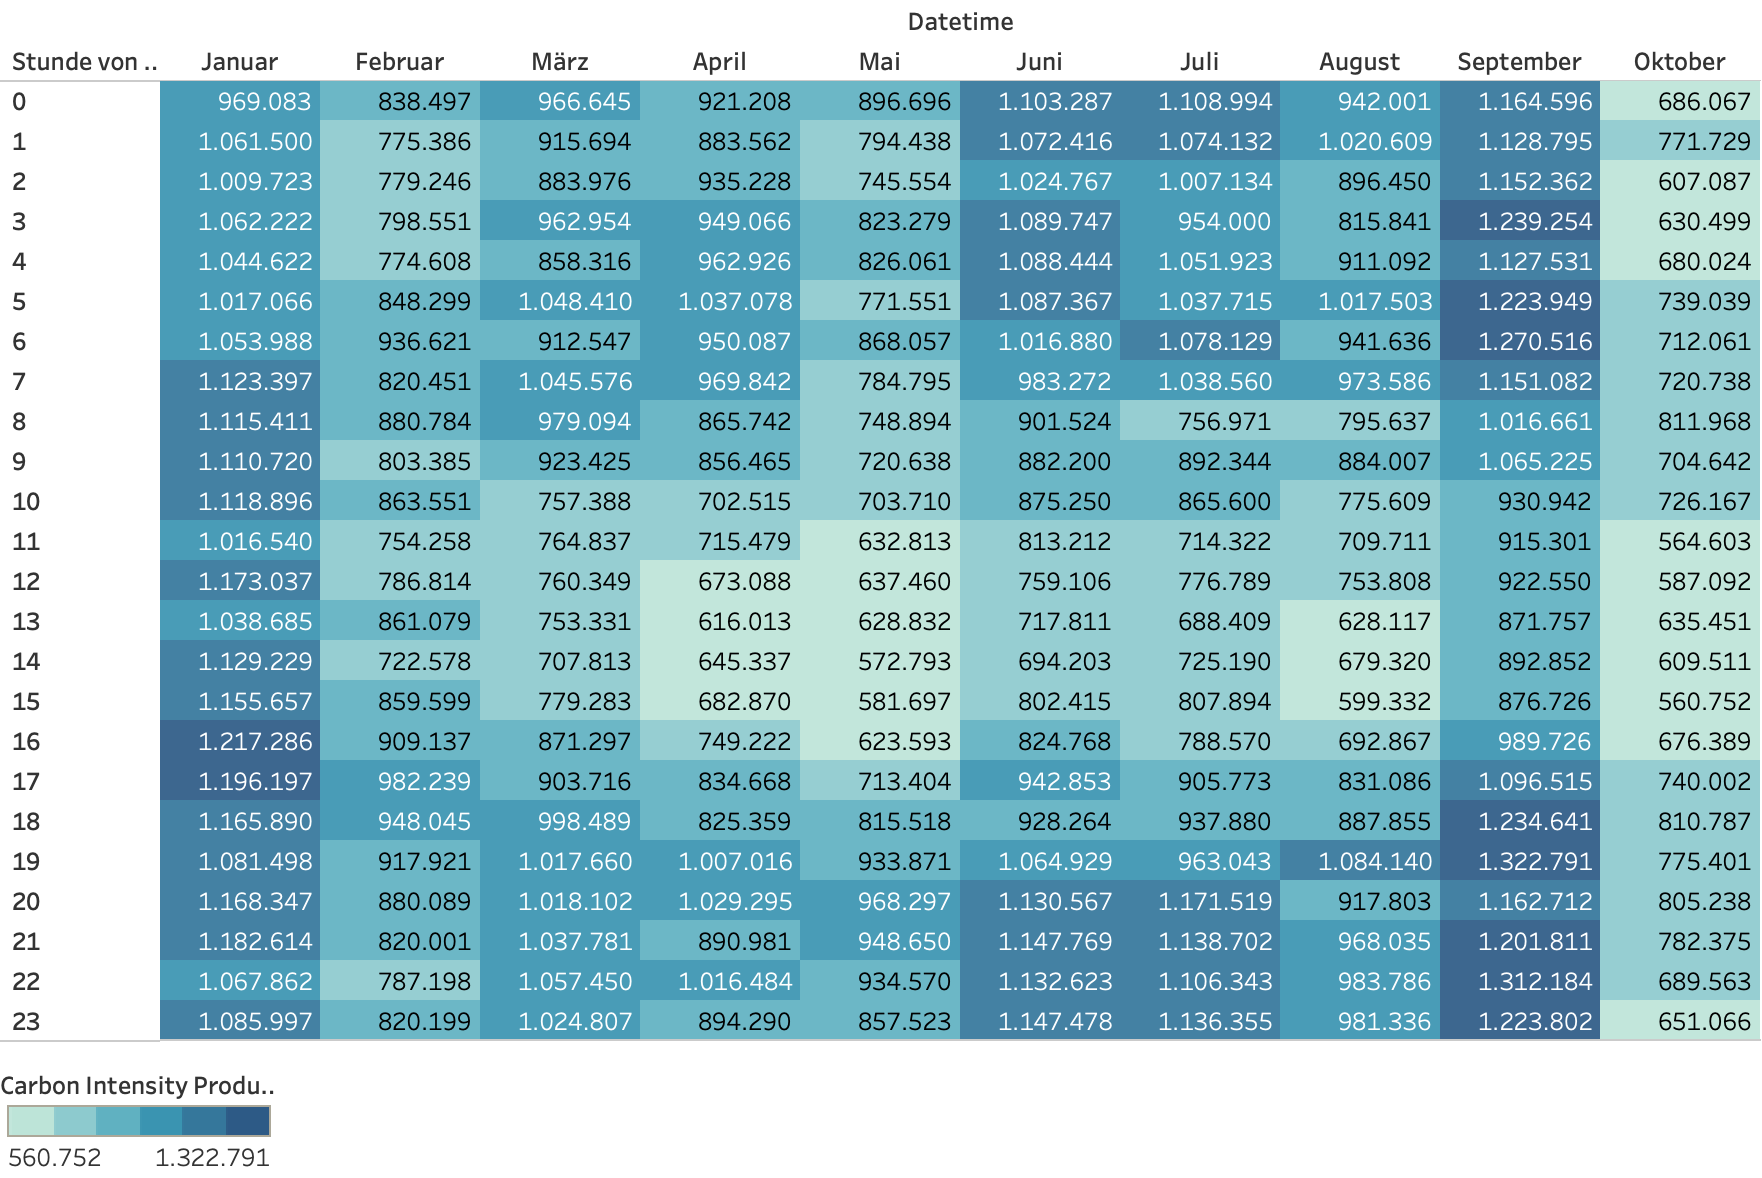
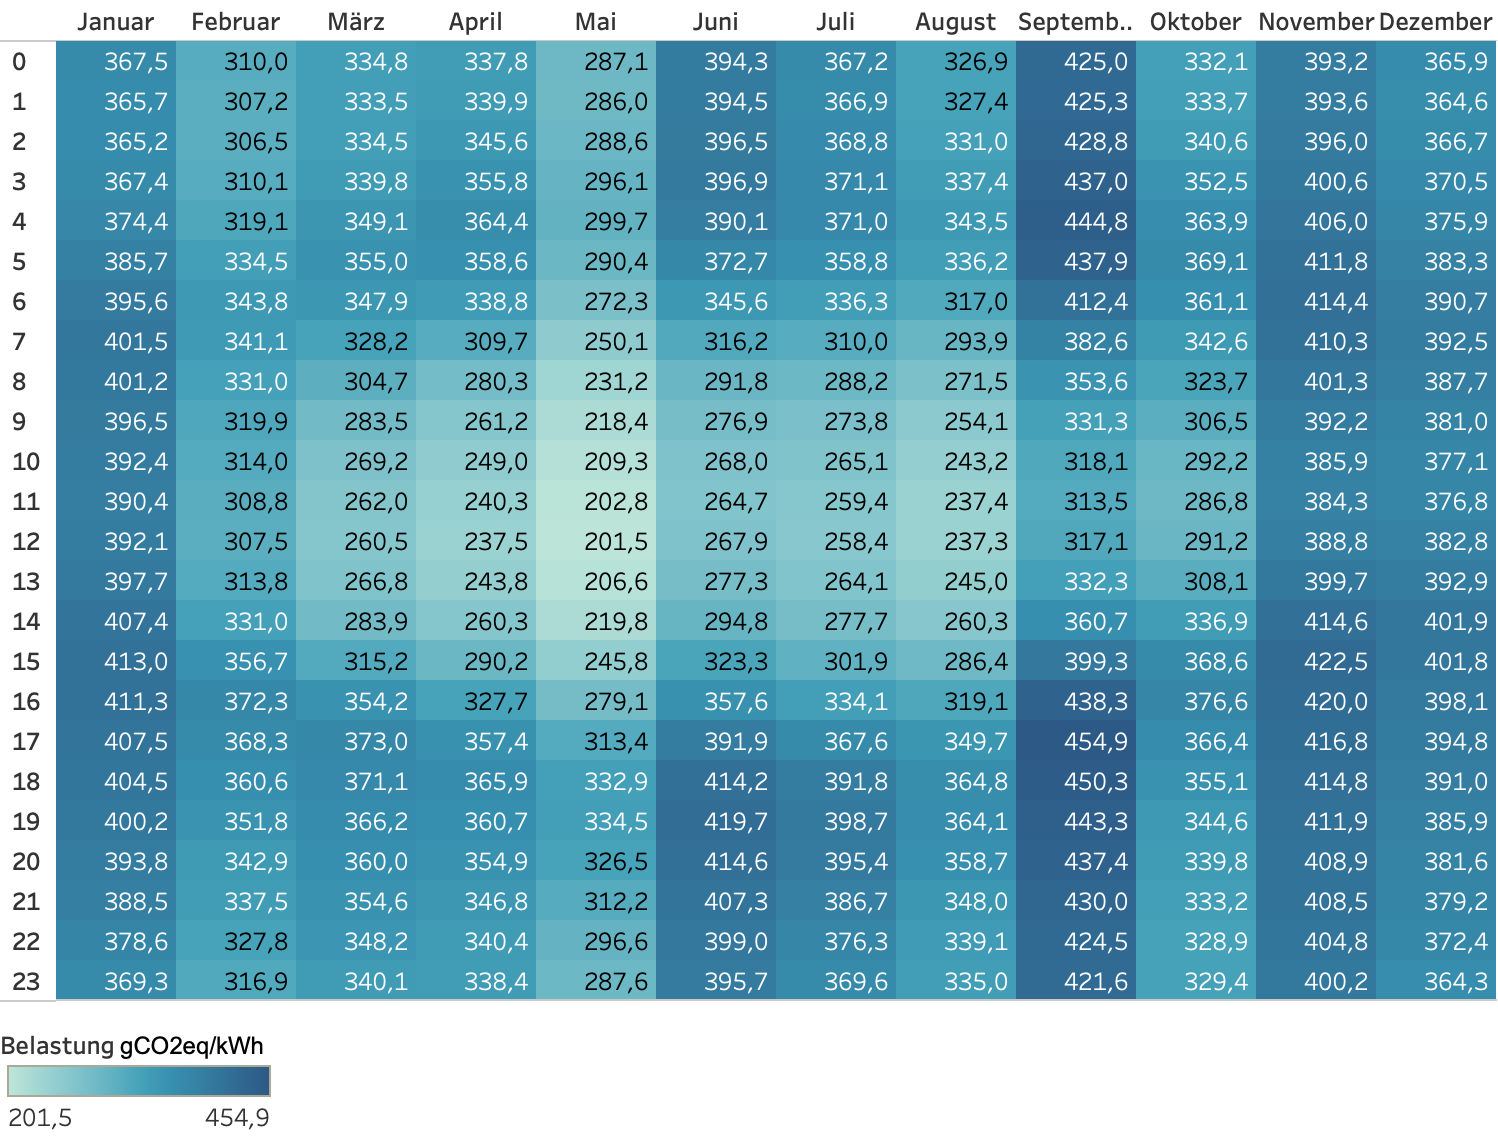
Quellen & Minor Stuff

diff --git a/public/index.html b/public/index.html
@@ -45,31 +45,8 @@
                Die Präsenz des Klimawandels und dessen Folgen sind allgegenwärtig in unserer heutigen Zeit.<br/>
                Doch gerade in dieser digitalisierten Welt sollte es doch möglich sein, Fehler und Gefahren, mit Hilfe von Daten und deren Auswertung, zu erkennen, diese zu beheben und die dringend notwendige Energiewende einzuleiten.<br/><br/>
                Doch warum ist dies nicht der Fall?<br/> Warum scheint das Klimaziel der 1,5° Grad Celsius immer weiter in die Ferne zu rücken?<br/><br/>
-               Um dieses Problem zu lösen, haben wir uns mit der Energiewende und der damit verbundenen Versorgungssicherheit Deutschlands befasst. Dabei wollten wir die Daten auswerten und in einer Form visualisieren und darstellen, dass sie leicht verständlich und aussagekräftig sind, und vielleicht sogar mögliche Ansätze für einen Energiewandel aufzeigen können.
+               
               </p>
-              <ul class="flex flex-wrap items-center mt-16">
-                <li>
-                  <a
-                    href="javascript:void(0)"
-                    class="
-                      py-4
-                      px-6
-                      sm:px-10
-                      lg:px-8
-                      xl:px-10
-                      inline-flex
-                      items-center
-                      justify-center
-                      text-center text-white text-base
-                      bg-blue-500
-                      hover:bg-opacity-90
-                      font-normal
-                      rounded-lg
-                    "
-                  >
-                  </a>
-                </li>
-              </ul>
 
             </div>
           </div>
@@ -123,6 +100,34 @@
         </div>
       </div>
     </div>
+
+    <div class="flex justify-center items-center mb-16">
+  
+      <card class="grid grid-cols-6 max-w-6xl mx-8 rounded-xl bg-blue-500 mb-32 mt-32">
+        
+        <div class="col-span-4 mb-8">
+          
+          <h2 class="font-bold text-3xl text-white ml-10 mt-8"> 
+            Unser Ansatz
+          </h2>
+          
+          <p class="font-light text-white text-md ml-10 mt-5">
+            Um dieses Problem zu lösen, haben wir uns mit der Energieerzeugung und dem damit verbundenen Kohlenstoffdioxidausstoß Deutschlands befasst. Dabei wollten wir die Daten auswerten und in einer Form visualisieren und darstellen, dass sie leicht verständlich und aussagekräftig sind, und vielleicht sogar mögliche Ansätze für einen Energiewandel aufzeigen können.</br>
+            An den Schiebereglern kannst du selber Politiker spielen und zum Beispiel den Kohleausstieg vollziehen und die Windenergie ausbauen. Aber sei dir über die Folgen im Klaren!</br></br>
+            Die Daten stammen von: <a class="text-white hover:text-gray-500" href="https://electricitymap.org/" target="_blank">electricitymap.org</a>
+          </p>
+         
+          
+        </div>
+        
+        <div class="col-span-2 relative">
+          <img src="./assets/Wind-Turbines.png" style="margin-bottom: -20px;" class="absolute bottom-0 right-0"/>
+        </div>
+        
+      </card>
+      
+   </div>
+
     <!-- ====== Hero Section End -->
 
     <link rel="stylesheet" href="https://cdn.tailgrids.com/tailgrids-fallback.css" />
@@ -160,14 +165,6 @@
                    <span class="text-primary font-semibold text-lg block mb-4">
                    Solar
                    </span>
-                   <p
-                      class="
-                      text-base text-body-color
-                      pb-4
-                      "
-                      >
-                      Lorem ipsum dolor sit amet tempor incididunt ut labore et dolore magna aliqua.
-                   </p>
                    <img
                      src="assets/solar.jpg"
                      alt="hero"
@@ -182,28 +179,8 @@
                    />
                    <div class="mb-7">
                       <p class="text-base text-body-color leading-loose mb-1">
-                         Lorem ipsum dolor sit amet tempor incididunt ut labore et dolore magna aliqua. Lorem ipsum dolor sit amet tempor incididunt ut labore et dolore magna aliqua.
-                      </p>
+                        Solarenergie ist der zweitgrößte Erzeuger aus den erneuerbaren Energien in Deutschland. Dabei profitiert die Solarenergie durch Subvention und Gesetze, denen es Firmen und Privatpersonen erlaubt kostengünstig Solarenergie zu produzieren.                      </p>
                    </div>
-                   <a
-                      href="javascript:void(0)"
-                      class="
-                      w-full
-                      block
-                      text-base
-                      font-semibold
-                      text-primary
-                      bg-transparent
-                      border border-[#D4DEFF]
-                      rounded-md
-                      text-center
-                      p-4
-                      hover:text-white hover:bg-primary hover:border-primary
-                      transition
-                      "
-                      >
-                   Learn More
-                   </a>
                    <div>
                       <span class="absolute right-0 top-7 z-[-1]">
                          <svg
@@ -491,14 +468,6 @@
                    <span class="text-primary font-semibold text-lg block mb-4">
                    Wind
                    </span>
-                   <p
-                      class="
-                      text-base text-body-color
-                      pb-4
-                      "
-                      >
-                      Lorem elit, sed do eiusmod tempor incididunt ut labore et dolore magna aliqua.
-                   </p>
                    <img
                      src="assets/wind.jpg"
                      alt="hero"
@@ -513,28 +482,8 @@
                    />
                    <div class="mb-7">
                       <p class="text-base text-body-color leading-loose mb-1">
-                         Voluptate velit esse cillum dolore eu fugiat nulla pariatur. Excepteur sint occaecat cupidatat non proident, sunt in culpa qui officia deserunt mollit anim id est laborum.
-                      </p>
+                        Windenergie besitzt den größten Anteil am produzierten Strom der erneuerbaren Energien in Deutschland. Trotz der guten Umweltbilanz ging der Ausbau von Windkraftanlagen in den letzten Jahren stetig zurück. Des Weiteren wird der Ausbau von Windkraftanlagen durch verschiedene Faktoren verlangsamt.                      </p>
                    </div>
-                   <a
-                      href="javascript:void(0)"
-                      class="
-                      w-full
-                      block
-                      text-base
-                      font-semibold
-                      text-primary
-                      bg-transparent
-                      border border-[#D4DEFF]
-                      rounded-md
-                      text-center
-                      p-4
-                      hover:text-white hover:bg-primary hover:border-primary
-                      transition
-                      "
-                      >
-                   Learn More
-                   </a>
                    <div>
                       <span class="absolute right-0 top-7 z-[-1]">
                          <svg
@@ -822,14 +771,6 @@
                    <span class="text-primary font-semibold text-lg block mb-4">
                    Batterien
                    </span>
-                   <p
-                      class="
-                      text-base text-body-color
-                      pb-4
-                      "
-                      >
-                      Lorem ipsum dolor sit amet, consectetur adipiscing elit, sed do eiusmod tempor.
-                   </p>
                    <img
                      src="assets/megapack.png"
                      alt="hero"
@@ -844,28 +785,10 @@
                    />
                    <div class="mb-7">
                       <p class="text-base text-body-color leading-loose mb-1">
-                         sed do eiusmod tempor incididunt ut labore et dolore magna aliqua. Ut enim ad minim veniam, quis nostrud exercitation ullamco laboris nisi ut aliquip ex ea commodo consequat.
-                      </p>
+                        Um erneuerbare Energien flexibel in den deutschen Strommix einbauen und als wahre Alternative zu konventionellen Stromerzeugern nutzen zu können brauchen wir leistungsfähige Stromspeicher: Batterien. Die Entwicklung dieser und ähnlicher Speichermöglichkeiten bilden einen wichtigen Meilenstein im Voranschreiten der Energiewende.
+                     </p>
                    </div>
-                   <a
-                      href="javascript:void(0)"
-                      class="
-                      w-full
-                      block
-                      text-base
-                      font-semibold
-                      text-primary
-                      bg-transparent
-                      border border-[#D4DEFF]
-                      rounded-md
-                      text-center
-                      p-4
-                      hover:text-white hover:bg-primary hover:border-primary
-                      transition
-                      "
-                      >
-                   Learn More
-                   </a>
+
                    <div>
                       <span class="absolute right-0 top-7 z-[-1]">
                          <svg
@@ -1148,36 +1071,6 @@
        "
        >
 
-
-       <div class="flex justify-center items-center mb-16">
-  
-         <card class="grid grid-cols-6 max-w-6xl mx-8 rounded-xl bg-blue-500">
-           
-           <div class="col-span-4 mb-8">
-             
-             <h2 class="font-bold text-3xl text-white ml-10 mt-8"> 
-               Eine detaillierte Übersicht der Energieerzeuger
-             </h2>
-             
-             <p class="font-light text-white text-md ml-10 mt-5">
-               Die Präsenz des Klimawandels und dessen Folgen sind allgegenwärtig in unserer heutigen Zeit.</br>
-               Doch gerade in dieser digitalisierten Welt sollte es doch möglich sein, Fehler und Gefahren, mit Hilfe von Daten und deren Auswertung, zu erkennen, diese zu beheben und die dringend notwendige Energiewende einzuleiten.</br></br>
-               Doch warum ist dies nicht der Fall? Warum scheint das Klimaziel der 1,5° Grad Celsius immer weiter in die Ferne zu rücken?</br>
-               Um dieses Problem zu lösen, haben wir uns mit der Energieerzeugung und dem damit verbundenen Kohlenstoffdioxidausstoß Deutschlands befasst. Dabei wollten wir die Daten auswerten und in einer Form visualisieren und darstellen, dass sie leicht verständlich und aussagekräftig sind, und vielleicht sogar mögliche Ansätze für einen Energiewandel aufzeigen können.</br>
-                 An den Schiebereglern kannst du selber Politiker spielen und zum Beispiel den Kohleausstieg vollziehen und die Windenergie ausbauen. Aber sei dir über die Folgen im Klaren!
-             </p>
-            
-             
-           </div>
-           
-           <div class="col-span-2 relative">
-             <img src="./assets/Wind-Turbines.png" style="margin-bottom: -20px;" class="absolute bottom-0 right-0"/>
-           </div>
-           
-         </card>
-         
-      </div>
-
 <div class="container">
     <div class="w-full mb-2 lg:mb-0">
       <h1 class="sm:text-4xl text-5xl font-medium title-font mb-2 text-gray-900">2021 - Stromproduktion in Deutschland pro Monat*</h1>
@@ -1307,7 +1200,7 @@
                Der Energiebedarf ist momentan zu <span class="font-bold text-xl" id="prozentEnergie">0%</span> abgedeckt.</p>
                Die eingestellten Werte lassen sich anhand der hier abgebildeten Karte überprüfen.</br>
                Für den jeweils ausgewählten Monat wird dazu der gesamte Energiebearf zusammengezählt.<br/></br>
-               Die Produktion erneuerbarer Energien ist tageszeitabhängig, dafür ist es wichtig, diese Spannungsspitzen abzufangen und so zu verteilen, dass die Energie nachts ebenfalls genutzt werden können.
+               Die Produktion erneuerbarer Energien ist tageszeitabhängig, dafür ist es wichtig, diese Spannungsspitzen abzufangen und so zu verteilen, sodass die Energie nachts ebenfalls genutzt werden kann.
             </p>
          </div>
       </div>
@@ -1530,13 +1423,10 @@
                   <img class="h-64 bg-cover lg:rounded-lg lg:h-full" src="assets/CarbonIntensity.png"></img>
             </div>
             <div class="py-12 px-6 max-w-xl lg:max-w-5xl lg:w-1/3">
-                  <h2 class="text-3xl text-gray-800 font-bold">Carbon Intensity for each hour every month</h2>
+                  <h2 class="text-3xl text-gray-800 font-bold">Kohlenstoffdioxidausstoß pro Stunde</h2>
                   <p class="mt-4 text-gray-600">Durch die starke Entwicklung der erneuerbaren Energien und dem damit folgenden Rückgang des aus Kohle produzierten Stroms, sank 2020 der Kohlenstoffdioxidausstoß um 82 Millionen Tonnen im Vergleich zum Vorjahr. Der Ökostromanteil im deutschen Netzwerk betrug 2020 über 50%. Damit sank der Anteil von fossilen Brennstoffen an der Stromerzeugung. Ziel der Bundesrepublik war es den CO2 Ausstoß um mindestens 40% bis 2020 zu senken, dieses Ziel wurde erfüllt (7).
 
                      Dabei muss berücksichtigt werden, dass ein großer Faktor für den CO2 -Rückgang die aktuelle Pandemie ist. Durch die verringerten Reisen und Schwächung der Wirtschaft wurden große Mengen an Kohlenstoffdioxid eingespart. Und daher muss abgewartet werden, ob in den nächsten Jahren nicht doch wieder ein Anstieg an CO2 Emission zu erkennen ist und ob ein vorgezogener Kohleausstieg im Jahre 2030 wirklich realistisch sein kann.</p>
-                  <div class="mt-8">
-                     <a href="#" class="bg-gray-900 text-gray-100 px-5 py-3 font-semibold rounded">Read more</a>
-                  </div>
             </div>
          </div>
       </div>
@@ -1606,40 +1496,49 @@
       </div>
    </div>
 
-    <div class="flex flex-wrap -mx-4 mt-16">
-        <div class="w-full px-4">
-            <div class="text-center mx-auto mb-[60px] lg:mb-20 max-w-[810px]">
-                <h2
-                        class="
-               font-bold
-               text-3xl
-               sm:text-4xl
-               md:text-[40px]
-               text-dark
-               mb-4
-               "
-                >
-                    Quellen
-                </h2>
-                <p class="text-base text-body-color">
-                    <ol>
-                <li><a href="https://www.umweltbundesamt.de/themen/klima-energie/erneuerbare-energien/erneuerbare-energien-in-zahlen#ueberblick">Umweltbundesamt</a></li>
-                <li><a href="https://www.umweltbundesamt.de/bild/kraftwerksleistung-in-deutschland)">Umweltbundesamt</a> </li>
-                <li><a href="https://de.statista.com/infografik/25839/leistung-von-neu-installierten-windenergieanlagen-in-deutschland/">Statista</a></li>
-                <li><a href="https://de.statista.com/infografik/25839/leistung-von-neu-installierten-windenergieanlagen-in-deutschland/">Statista</a> </li>
-                <li><a href="https://www.tagesschau.de/inland/solardach-pflicht-bundesregierung-planung-101.html">Tagesschau</a> </li>
-                <li><a href="https://www.umweltbundesamt.de/themen/klima-energie/erneuerbare-energien/photovoltaik#eigenverbrauch-und-batteriespeicher">Umweltbundesamt</a> </li>
-                <li><a href="https://www.dw.com/de/corona-effekt-deutschland-schafft-klimaziel-f%C3%BCr-2020-sinkflug-der-kohle-50-prozent-%C3%B6kostrom/a-56125016#:~:text=Laut%20Analyse%20des%20Berliner%20Thinktank,ein%20R%C3%BCckgang%20von%20zehn%20Prozent">Deutsche Welle</a> </li>
-                <li><a href="https://www.bundesregierung.de/breg-de/themen/energiewende/energie-erforschen/energieeffizienz-der-weg-zum-energie-sparen-450562#:~:text=Ziel%20der%20Bundesregierung%20aus%20dem,und%20damit%20ma%C3%9Fgeblich%20CO2%20einzusparen">Bundesregierung</a> </li>
-                <li><a href="https://www.bmwi.de/Redaktion/DE/Dossier/strommarkt-der-zukunft.html#:~:text=Deutschland%20exportierte%20im%20Jahr%202019,und%20verbraucht%20am%20meisten%20Strom">Bundesministerium für Wirtschaft und Klimaschutz</a> </li>
-                <li><a href="https://um.baden-wuerttemberg.de/de/energie/versorgungssicherheit/energiespeicher/">Ministerium für Umwelt, Klima und
-                    Energiewirtschaft Baden-Württemberg</a> </li>
-                <li><a href="https://www.bundesnetzagentur.de/DE/Sachgebiete/ElektrizitaetundGas/Unternehmen_Institutionen/HandelundVertrieb/SMARD/Aktuelles/start.html">Bundesnetzagentur</a> </li>
+
+<div class="container">
+   <div class="lg:justify-center mt-16">
+      <div class="grid grid-cols-2 gap-6 mb-2">
+         <div class="min-w-0 p-4">
+            <h4 class="mb-4 mt-4 font-semibold text-gray-600">
+               Quellen
+            </h4>
+            <ol>
+               <li><a class="text-blue-500 hover:text-gray-500" href="https://www.umweltbundesamt.de/themen/klima-energie/erneuerbare-energien/erneuerbare-energien-in-zahlen#ueberblick">Umweltbundesamt</a></li>
+               <li><a class="text-blue-500 hover:text-gray-500" href="https://www.umweltbundesamt.de/bild/kraftwerksleistung-in-deutschland)">Umweltbundesamt</a> </li>
+               <li><a class="text-blue-500 hover:text-gray-500" href="https://de.statista.com/infografik/25839/leistung-von-neu-installierten-windenergieanlagen-in-deutschland/">Statista</a></li>
+               <li><a class="text-blue-500 hover:text-gray-500" href="https://de.statista.com/infografik/25839/leistung-von-neu-installierten-windenergieanlagen-in-deutschland/">Statista</a> </li>
+               <li><a class="text-blue-500 hover:text-gray-500" href="https://www.tagesschau.de/inland/solardach-pflicht-bundesregierung-planung-101.html">Tagesschau</a> </li>
+               <li><a class="text-blue-500 hover:text-gray-500" href="https://www.umweltbundesamt.de/themen/klima-energie/erneuerbare-energien/photovoltaik#eigenverbrauch-und-batteriespeicher">Umweltbundesamt</a> </li>
+               <li><a class="text-blue-500 hover:text-gray-500" href="https://www.dw.com/de/corona-effekt-deutschland-schafft-klimaziel-f%C3%BCr-2020-sinkflug-der-kohle-50-prozent-%C3%B6kostrom/a-56125016#:~:text=Laut%20Analyse%20des%20Berliner%20Thinktank,ein%20R%C3%BCckgang%20von%20zehn%20Prozent">Deutsche Welle</a> </li>
+               <li><a class="text-blue-500 hover:text-gray-500" href="https://www.bundesregierung.de/breg-de/themen/energiewende/energie-erforschen/energieeffizienz-der-weg-zum-energie-sparen-450562#:~:text=Ziel%20der%20Bundesregierung%20aus%20dem,und%20damit%20ma%C3%9Fgeblich%20CO2%20einzusparen">Bundesregierung</a> </li>
+               <li><a class="text-blue-500 hover:text-gray-500" href="https://www.bmwi.de/Redaktion/DE/Dossier/strommarkt-der-zukunft.html#:~:text=Deutschland%20exportierte%20im%20Jahr%202019,und%20verbraucht%20am%20meisten%20Strom">Bundesministerium für Wirtschaft und Klimaschutz</a> </li>
+               <li><a class="text-blue-500 hover:text-gray-500" href="https://um.baden-wuerttemberg.de/de/energie/versorgungssicherheit/energiespeicher/">Ministerium für Umwelt, Klima und
+                   Energiewirtschaft Baden-Württemberg</a> </li>
+               <li><a class="text-blue-500 hover:text-gray-500" href="https://www.bundesnetzagentur.de/DE/Sachgebiete/ElektrizitaetundGas/Unternehmen_Institutionen/HandelundVertrieb/SMARD/Aktuelles/start.html">Bundesnetzagentur</a> </li>
+           </ol>
+         </div>
+         <div class="min-w-0 p-4">
+            <h4 class="mb-4 mt-4 font-semibold text-gray-600">
+               Bildquellen
+            </h4>
+            <ol>
+               <li><a class="text-blue-500 hover:text-gray-500" href="https://www.freepik.com/vectors/renewable-energy">Renewable energy vector created by pch.vector - www.freepik.com</a></li>
+               <li><a class="text-blue-500 hover:text-gray-500" href="https://www.freepik.com/vectors/man">Man vector created by pch.vector - www.freepik.com</a></li>
+               <li><a class="text-blue-500 hover:text-gray-500" href="https://www.freepik.com/vectors/background">Background vector created by frimufilms - www.freepik.com</a></li>
+               <li><a class="text-blue-500 hover:text-gray-500" href="https://freesvg.org/wind-turbines-silhouette">Wind turbines</a></li>
+               <li><a class="text-blue-500 hover:text-gray-500" href="https://www.freepik.com/vectors/eco">Solar Sun</a></li>
+               <li><a class="text-blue-500 hover:text-gray-500" href="https://unsplash.com/photos/V4ZYJZJ3W4M">Solar - Unsplash</a></li>
+               <li><a class="text-blue-500 hover:text-gray-500" href="https://unsplash.com/photos/pONBhDyOFoM">Wind - Unsplash</a></li>
+               <li><a class="text-blue-500 hover:text-gray-500" href="https://unsplash.com/photos/V4ZYJZJ3W4M">Solar - Unsplash</a></li>
+               <li><a class="text-blue-500 hover:text-gray-500" href="https://www.tesla.com/en_eu/megapack">Batterien - Tesla</a></li>
             </ol>
-                </p>
-            </div>
-        </div>
-    </div>
+         </div>
+      </div>
+   </div>
+</div>
+
 
     <script src="https://cdn.jsdelivr.net/npm/bootstrap@5.0.2/dist/js/bootstrap.bundle.min.js" integrity="sha384-MrcW6ZMFYlzcLA8Nl+NtUVF0sA7MsXsP1UyJoMp4YLEuNSfAP+JcXn/tWtIaxVXM" crossorigin="anonymous"></script>
     <script src="https://cdnjs.cloudflare.com/ajax/libs/Chart.js/2.5.0/Chart.min.js"></script>
